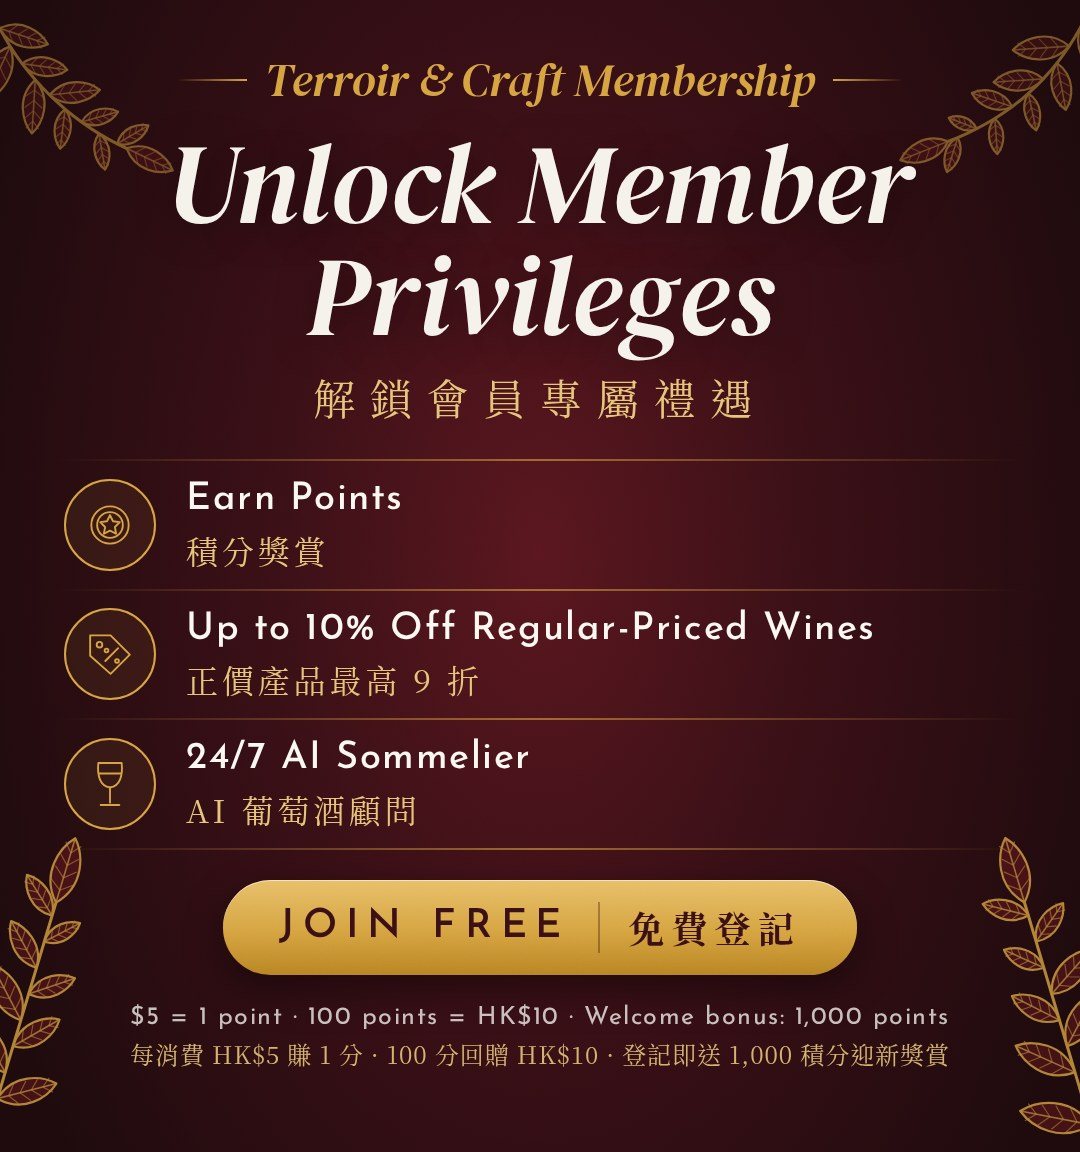
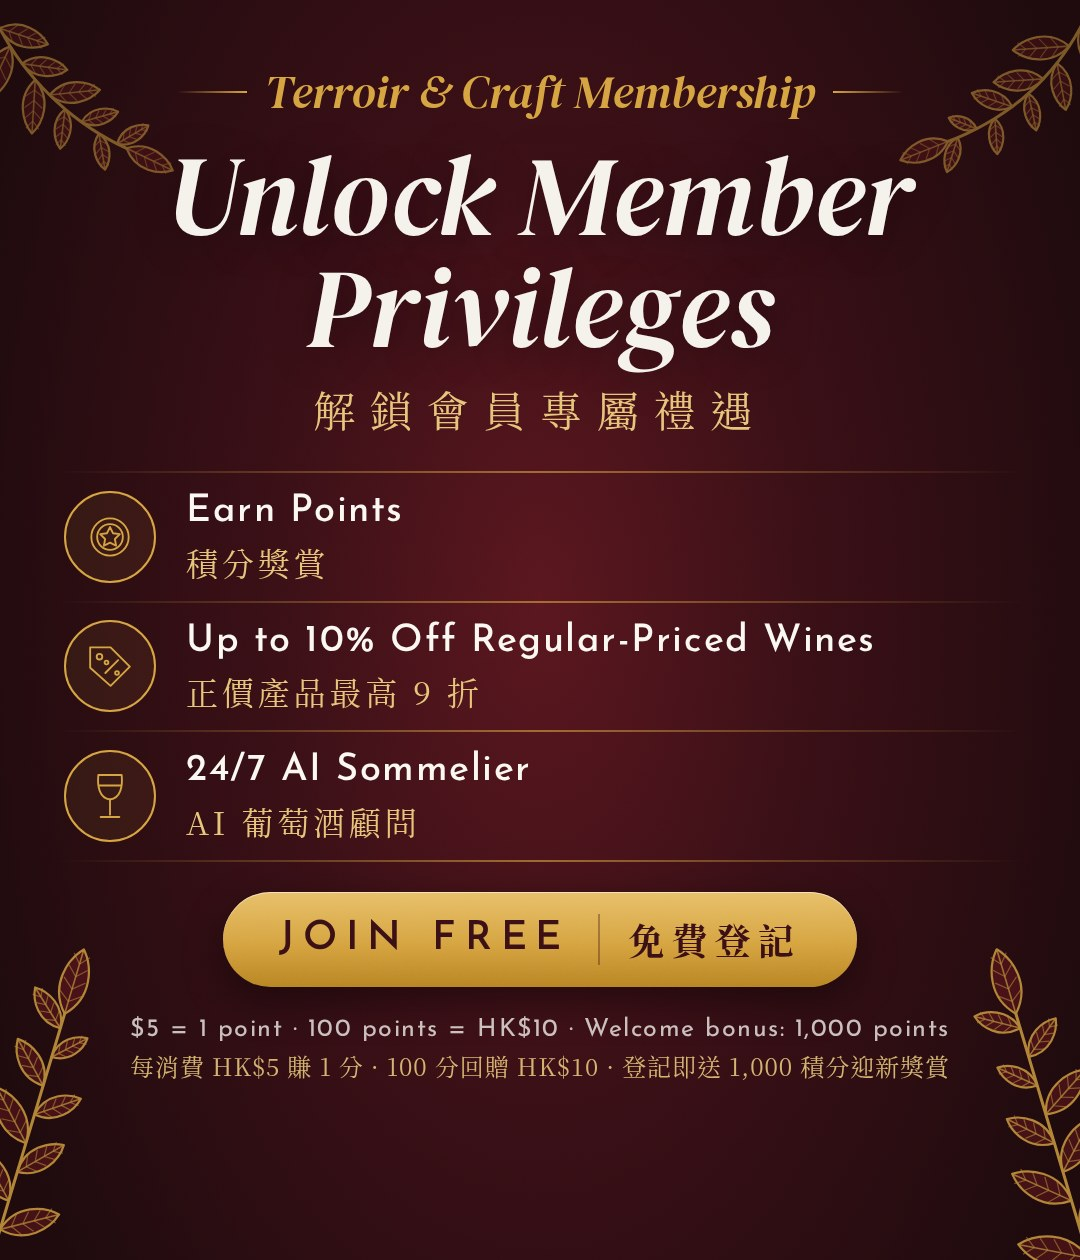
Member hero: safer text zone, taller mobile image, use mobile image below 1024px, shorter mobile fade

diff --git a/client/src/pages/HomePage.tsx b/client/src/pages/HomePage.tsx
@@ -18,8 +18,8 @@ import { useState, useEffect, useCallback, useRef } from "react";
 const HERO_SLIDES = [
   {
     id: "member",
-    bg: `${API_BASE}/member-hero-desktop.jpg?v=3`,
-    bgMobile: `${API_BASE}/member-hero-mobile.jpg?v=3`,
+    bg: `${API_BASE}/member-hero-desktop.jpg?v=4`,
+    bgMobile: `${API_BASE}/member-hero-mobile.jpg?v=4`,
     overlay: "rgba(0,0,0,0)",
     eyebrow: "",
     heading: "",
@@ -157,7 +157,7 @@ function HeroCarousel() {
           {/* Mobile background — overrides desktop on small screens */}
           {(s as any).bgMobile && (
             <div
-              className="absolute inset-0 sm:hidden"
+              className="absolute inset-0 lg:hidden"
               style={{
                 backgroundImage: `url('${(s as any).bgMobile}')`,
                 backgroundSize: "cover",
@@ -279,7 +279,7 @@ function HeroCarousel() {
       </div>
 
       {/* Bottom fade */}
-      <div className="absolute bottom-0 left-0 right-0 h-24 bg-gradient-to-t from-background to-transparent" style={{ zIndex: 3, pointerEvents: "none" }} />
+      <div className="absolute bottom-0 left-0 right-0 h-12 sm:h-24 bg-gradient-to-t from-background to-transparent" style={{ zIndex: 3, pointerEvents: "none" }} />
     </section>
   );
 }

diff --git a/client/src/index.css b/client/src/index.css
@@ -222,9 +222,10 @@
   border-radius: 4px;
 }
 
-/* Member hero: portrait image on mobile, landscape on desktop */
-@media (max-width: 639px) {
+/* Member hero: portrait (mobile) image below 1024px, landscape image above.
+   Section height follows the mobile image ratio (1080x1260) so nothing is cropped. */
+@media (max-width: 1023px) {
   .hero-member {
-    min-height: 100vw !important; /* mobile image is ~1:1, fills nicely */
+    min-height: calc(100vw * 1260 / 1080) !important;
   }
 }
